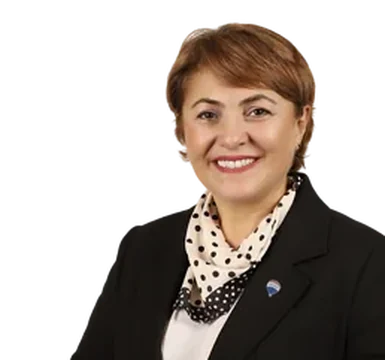
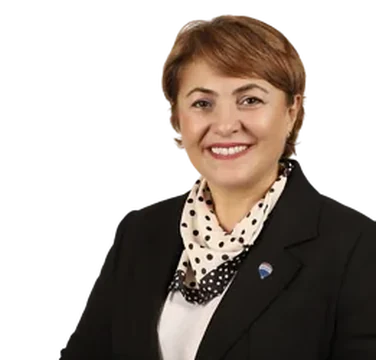
Ofis Takvimi: resimler baş üstü hizasına ve aynı baş boyuna göre kesildi (Orhan büyüdü)
Claude-Session: https://claude.ai/code/session_014SKq8WkohqfPMp3wdCpcDB

Changed region(s): [[0.1463, 0.0306, 1.0, 1.0]]

diff --git a/takvim.html b/takvim.html
@@ -427,14 +427,14 @@ function bugunCiz(){
 // Nöbetçinin dekupe fotoğrafı kutunun sağ altında, yazıların arkasında (Umut 18 Eki); Ofis günlerinde yok
 const NOBET_FIG = {aysegul:1,aysun:1,evsen:1,gamze:1,gizem:1,irem:1,orhan:1,ozlem:1};
 // Nöbetçi resimleri baştan indirilsin, ızgarada sonradan belirmesin (Umut 18 Eki)
-Object.keys(NOBET_FIG).forEach(id=>{ const i=new Image(); i.src=`assets/ekip/${innerWidth<600?'nobet/omuz':'nobet'}/${id}.webp?v=4`; });
-function figUrl(ad){ const u=fotoUrl(ad), id=u && u.split('/').pop().replace('.webp',''); return id && NOBET_FIG[id] ? `assets/ekip/nobet/${id}.webp?v=4` : ''; }
+Object.keys(NOBET_FIG).forEach(id=>{ const i=new Image(); i.src=`assets/ekip/${innerWidth<600?'nobet/omuz':'nobet'}/${id}.webp?v=5`; });
+function figUrl(ad){ const u=fotoUrl(ad), id=u && u.split('/').pop().replace('.webp',''); return id && NOBET_FIG[id] ? `assets/ekip/nobet/${id}.webp?v=5` : ''; }
 function nobetFig(o){
   if (!o || o.tur!=='nobet' || o.nobetci==='Ofis') return '';
   const u=fotoUrl(o.nobetci), id=u && u.split('/').pop().replace('.webp','');
   // Telefonda diğer omuz kesik görsel: el görünür, kişi kutunun sağ kenarına yaslı (Umut 18 Eki)
   const yol=innerWidth<600?'nobet/omuz':'nobet';
-  return id && NOBET_FIG[id] ? `<img class="nfig" src="assets/ekip/${yol}/${id}.webp?v=4" alt="">` : '';
+  return id && NOBET_FIG[id] ? `<img class="nfig" src="assets/ekip/${yol}/${id}.webp?v=5" alt="">` : '';
 }
 // Telefonda ay ızgarası ekranın kalanını kaplar, kutular uzun (Umut 18 Eki, seçenek A)
 function izgaraBoyut(){
